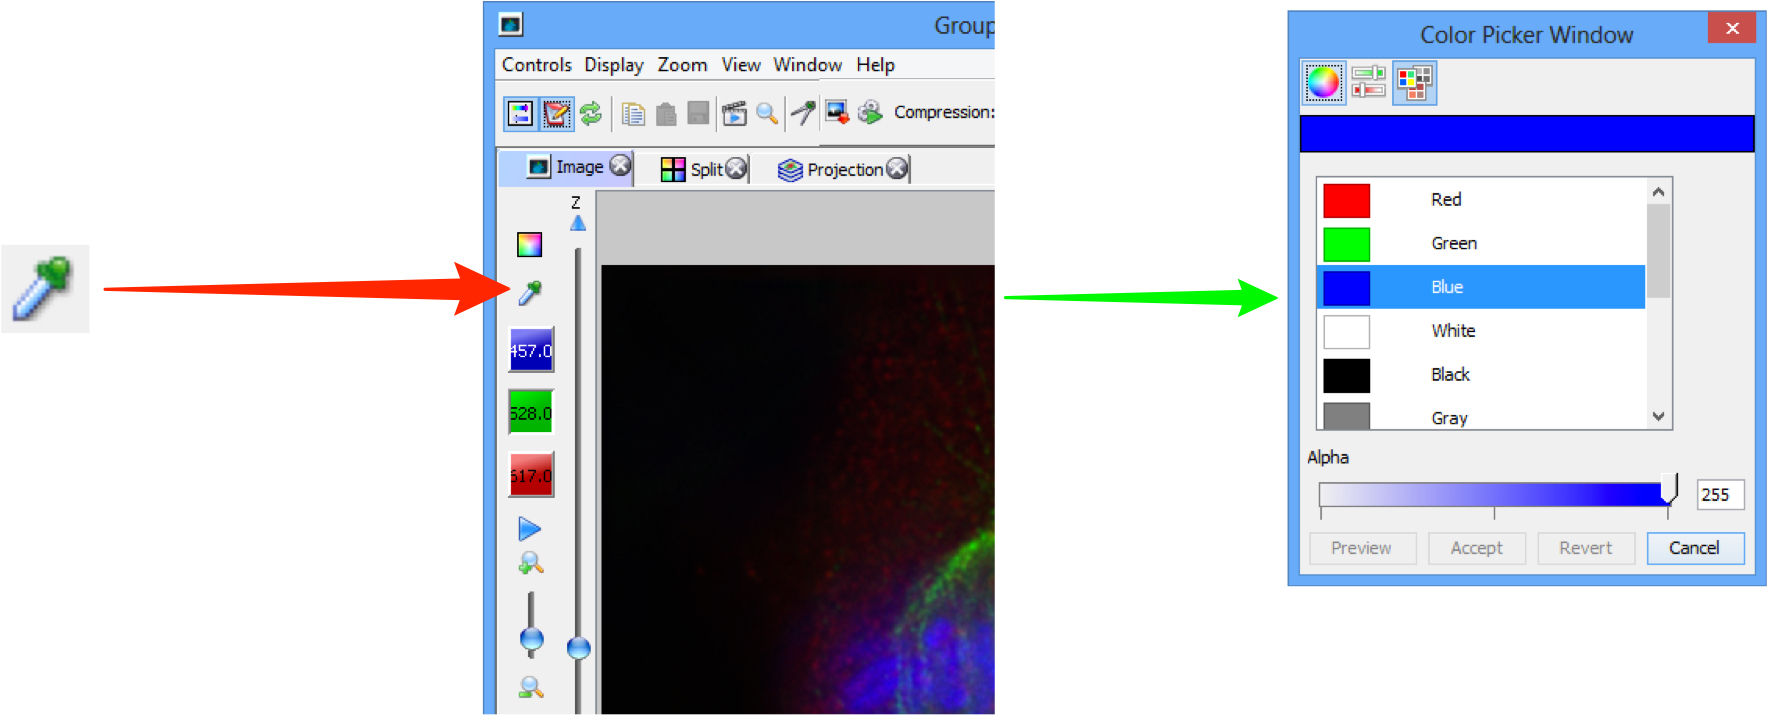
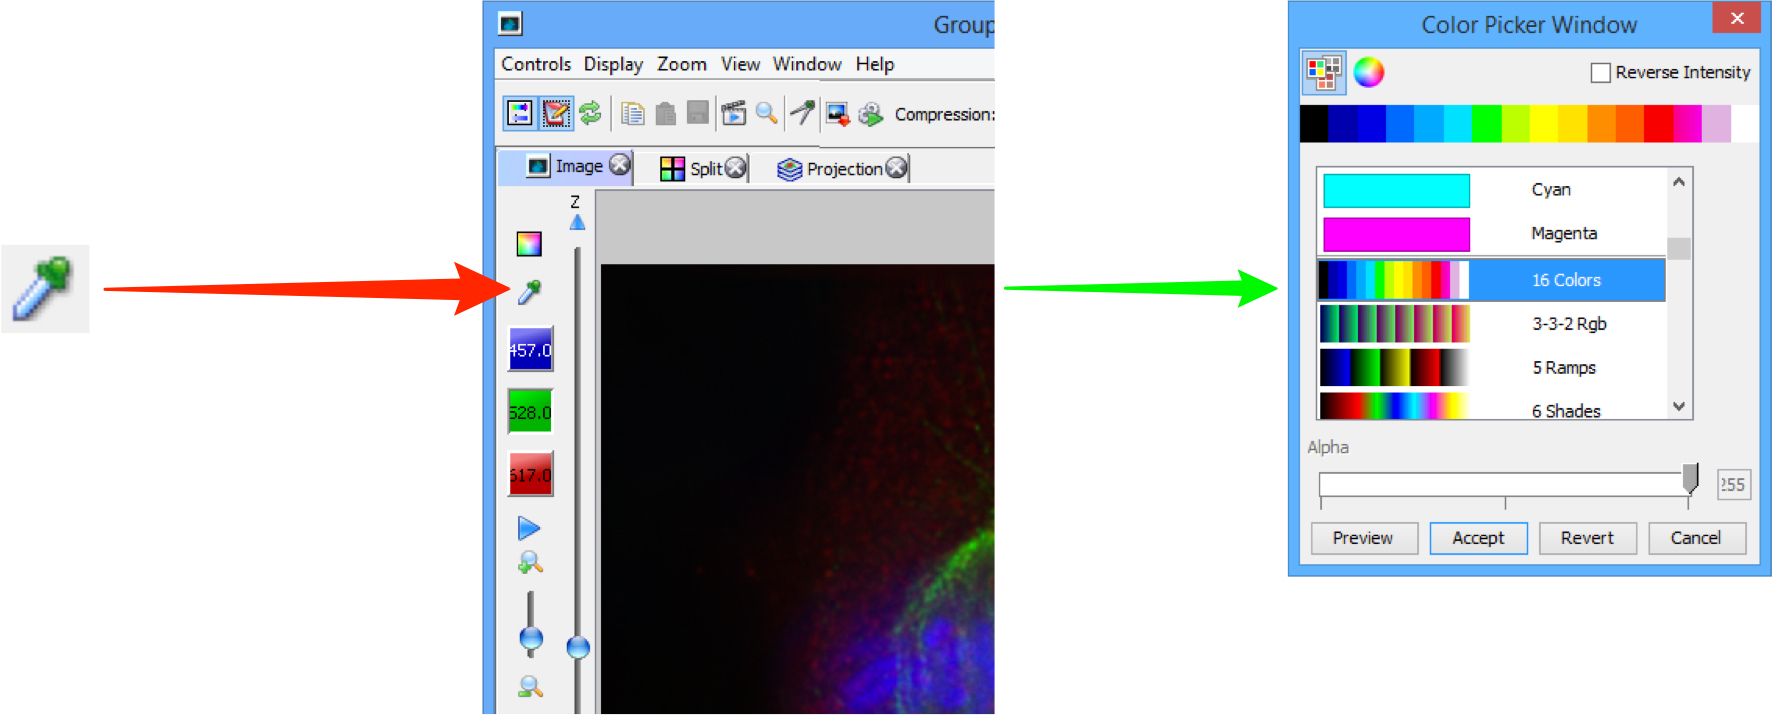
Updating the screenshots for LUTs/Histogram in Getting Started Insight

diff --git a/getting-started-5.html b/getting-started-5.html
@@ -411,7 +411,7 @@ your standard login for the institution&#8217;s networked computers.</p>
 
 <li><p class="first">Click the colour picker to open the colour picker window.</p>
 
-<p>This is used to change the colour rendering for a channel.</p>
+<p>Select a colour or colour look-up table (LUT) to change the colour rendering for a channel.</p>
 
 <p>Clicking the colour well toggles the channel on or off.</p>
 
